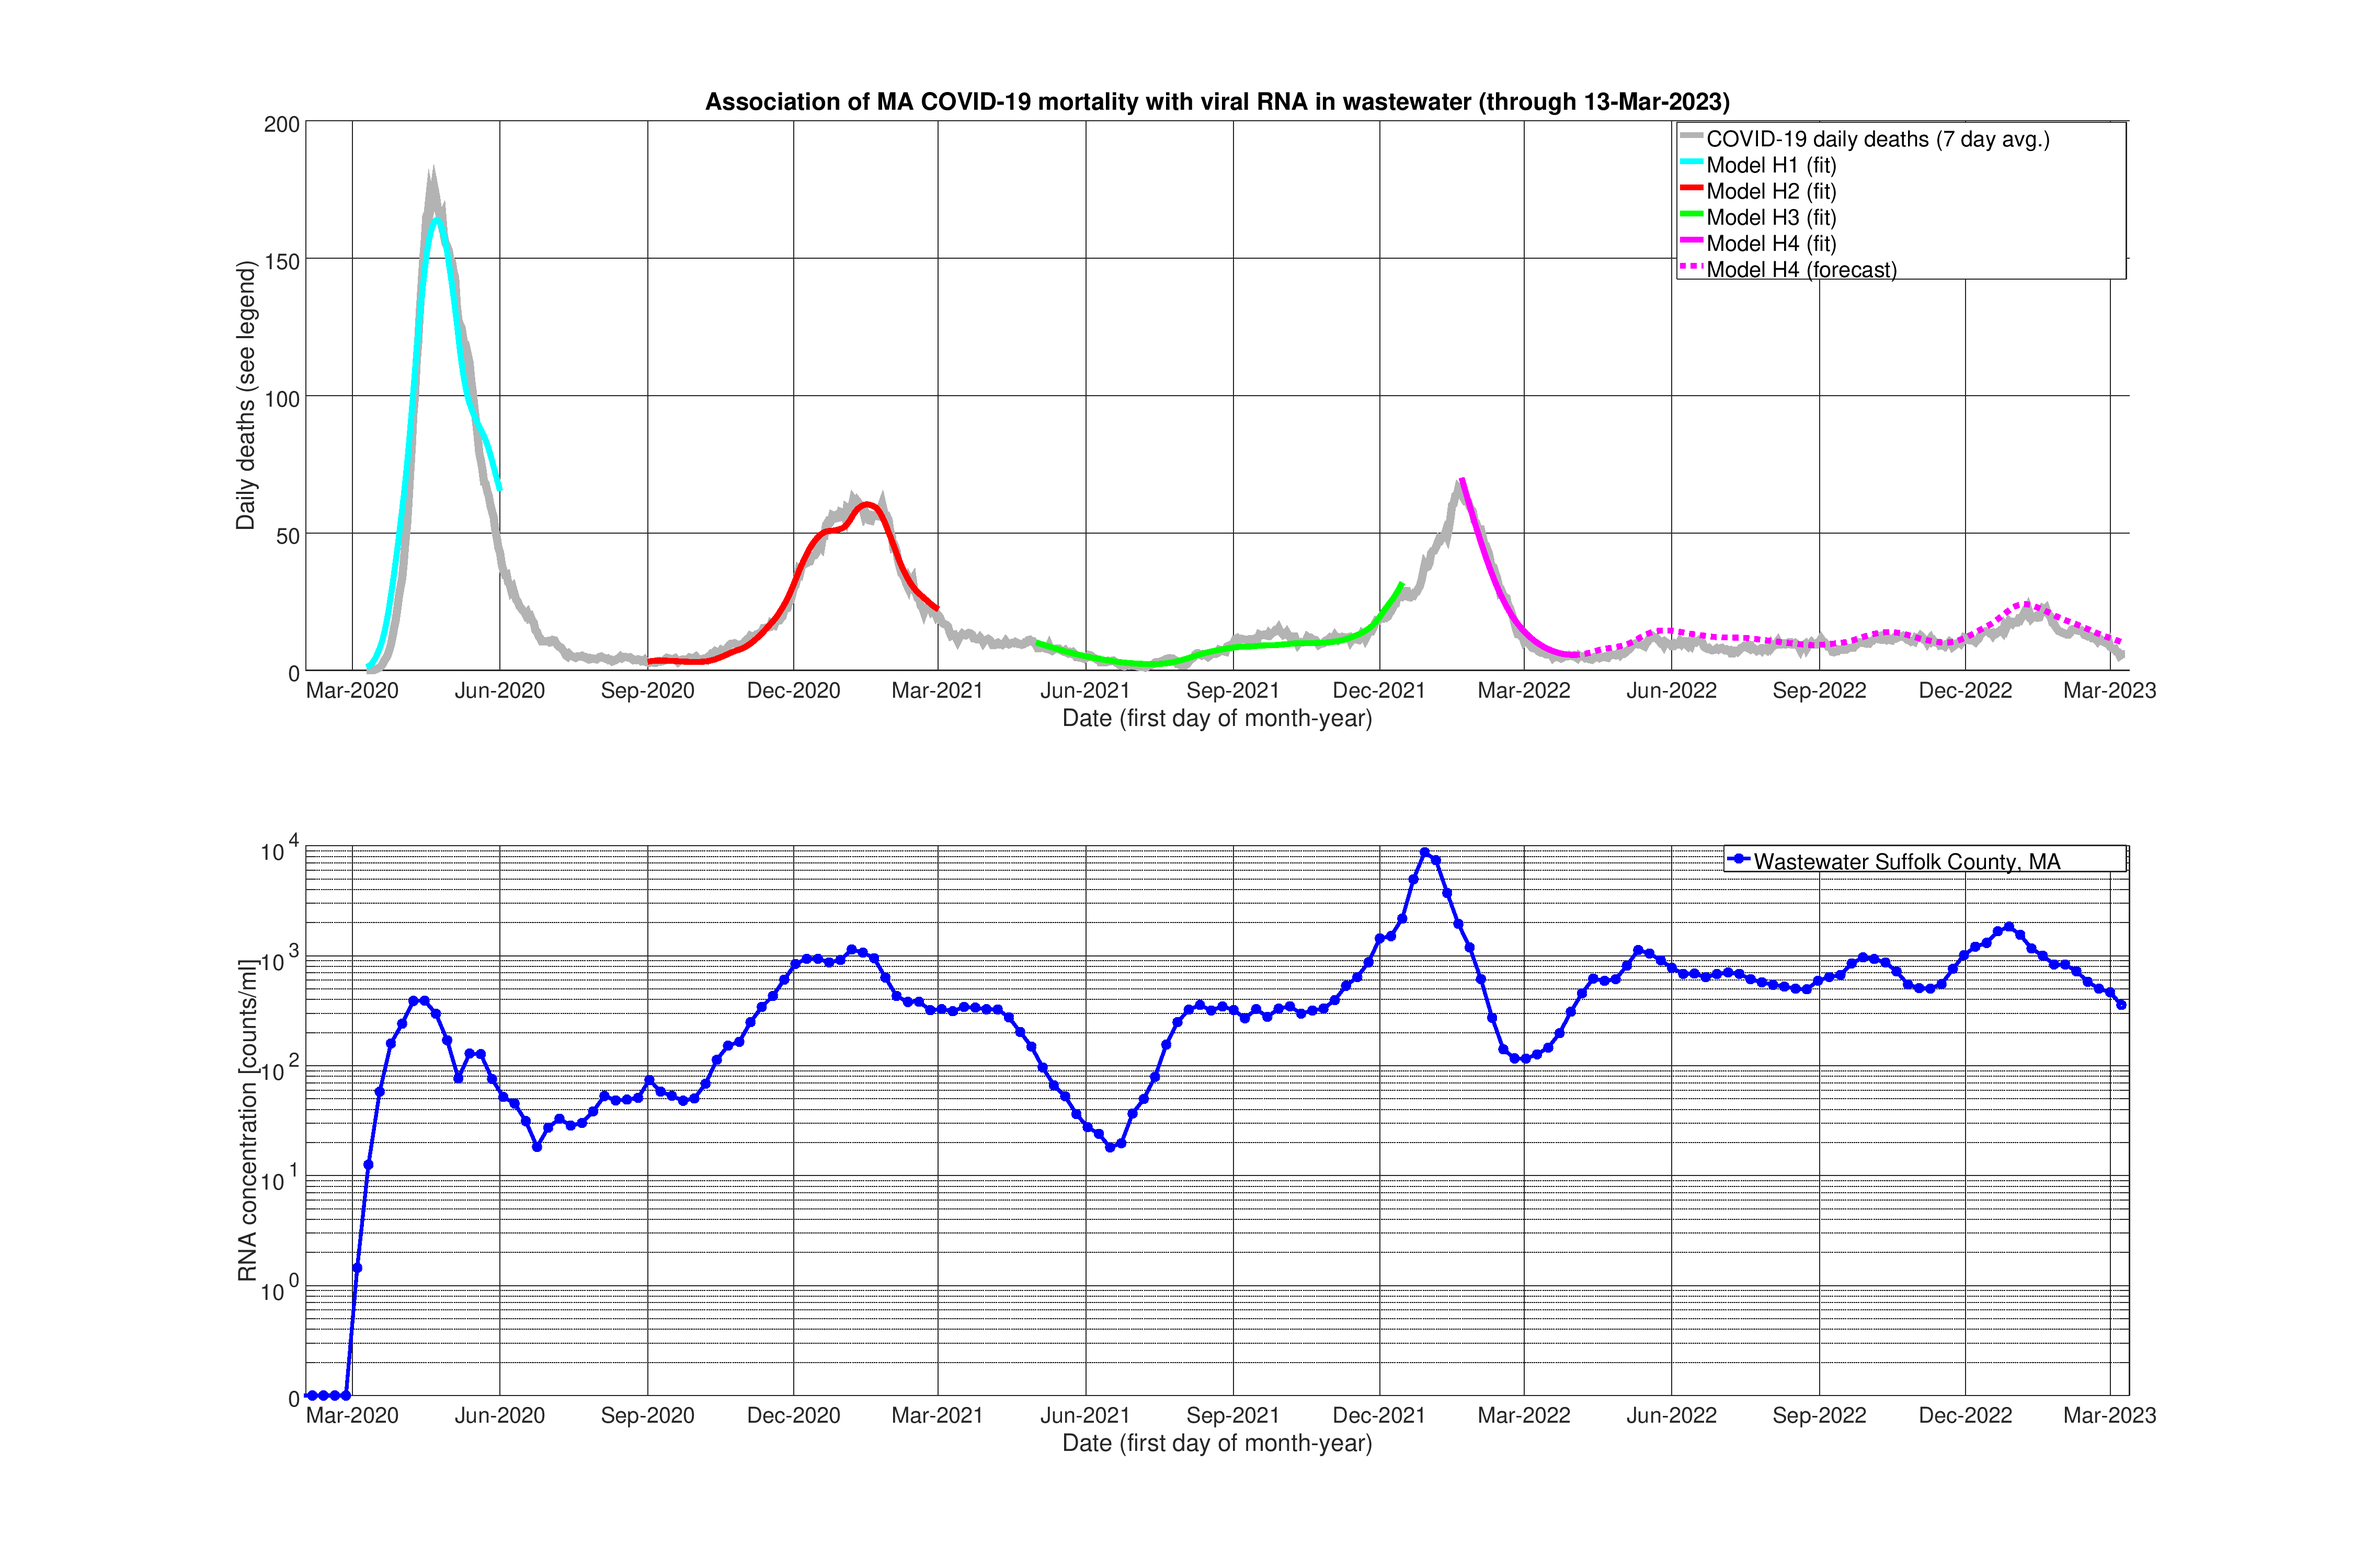
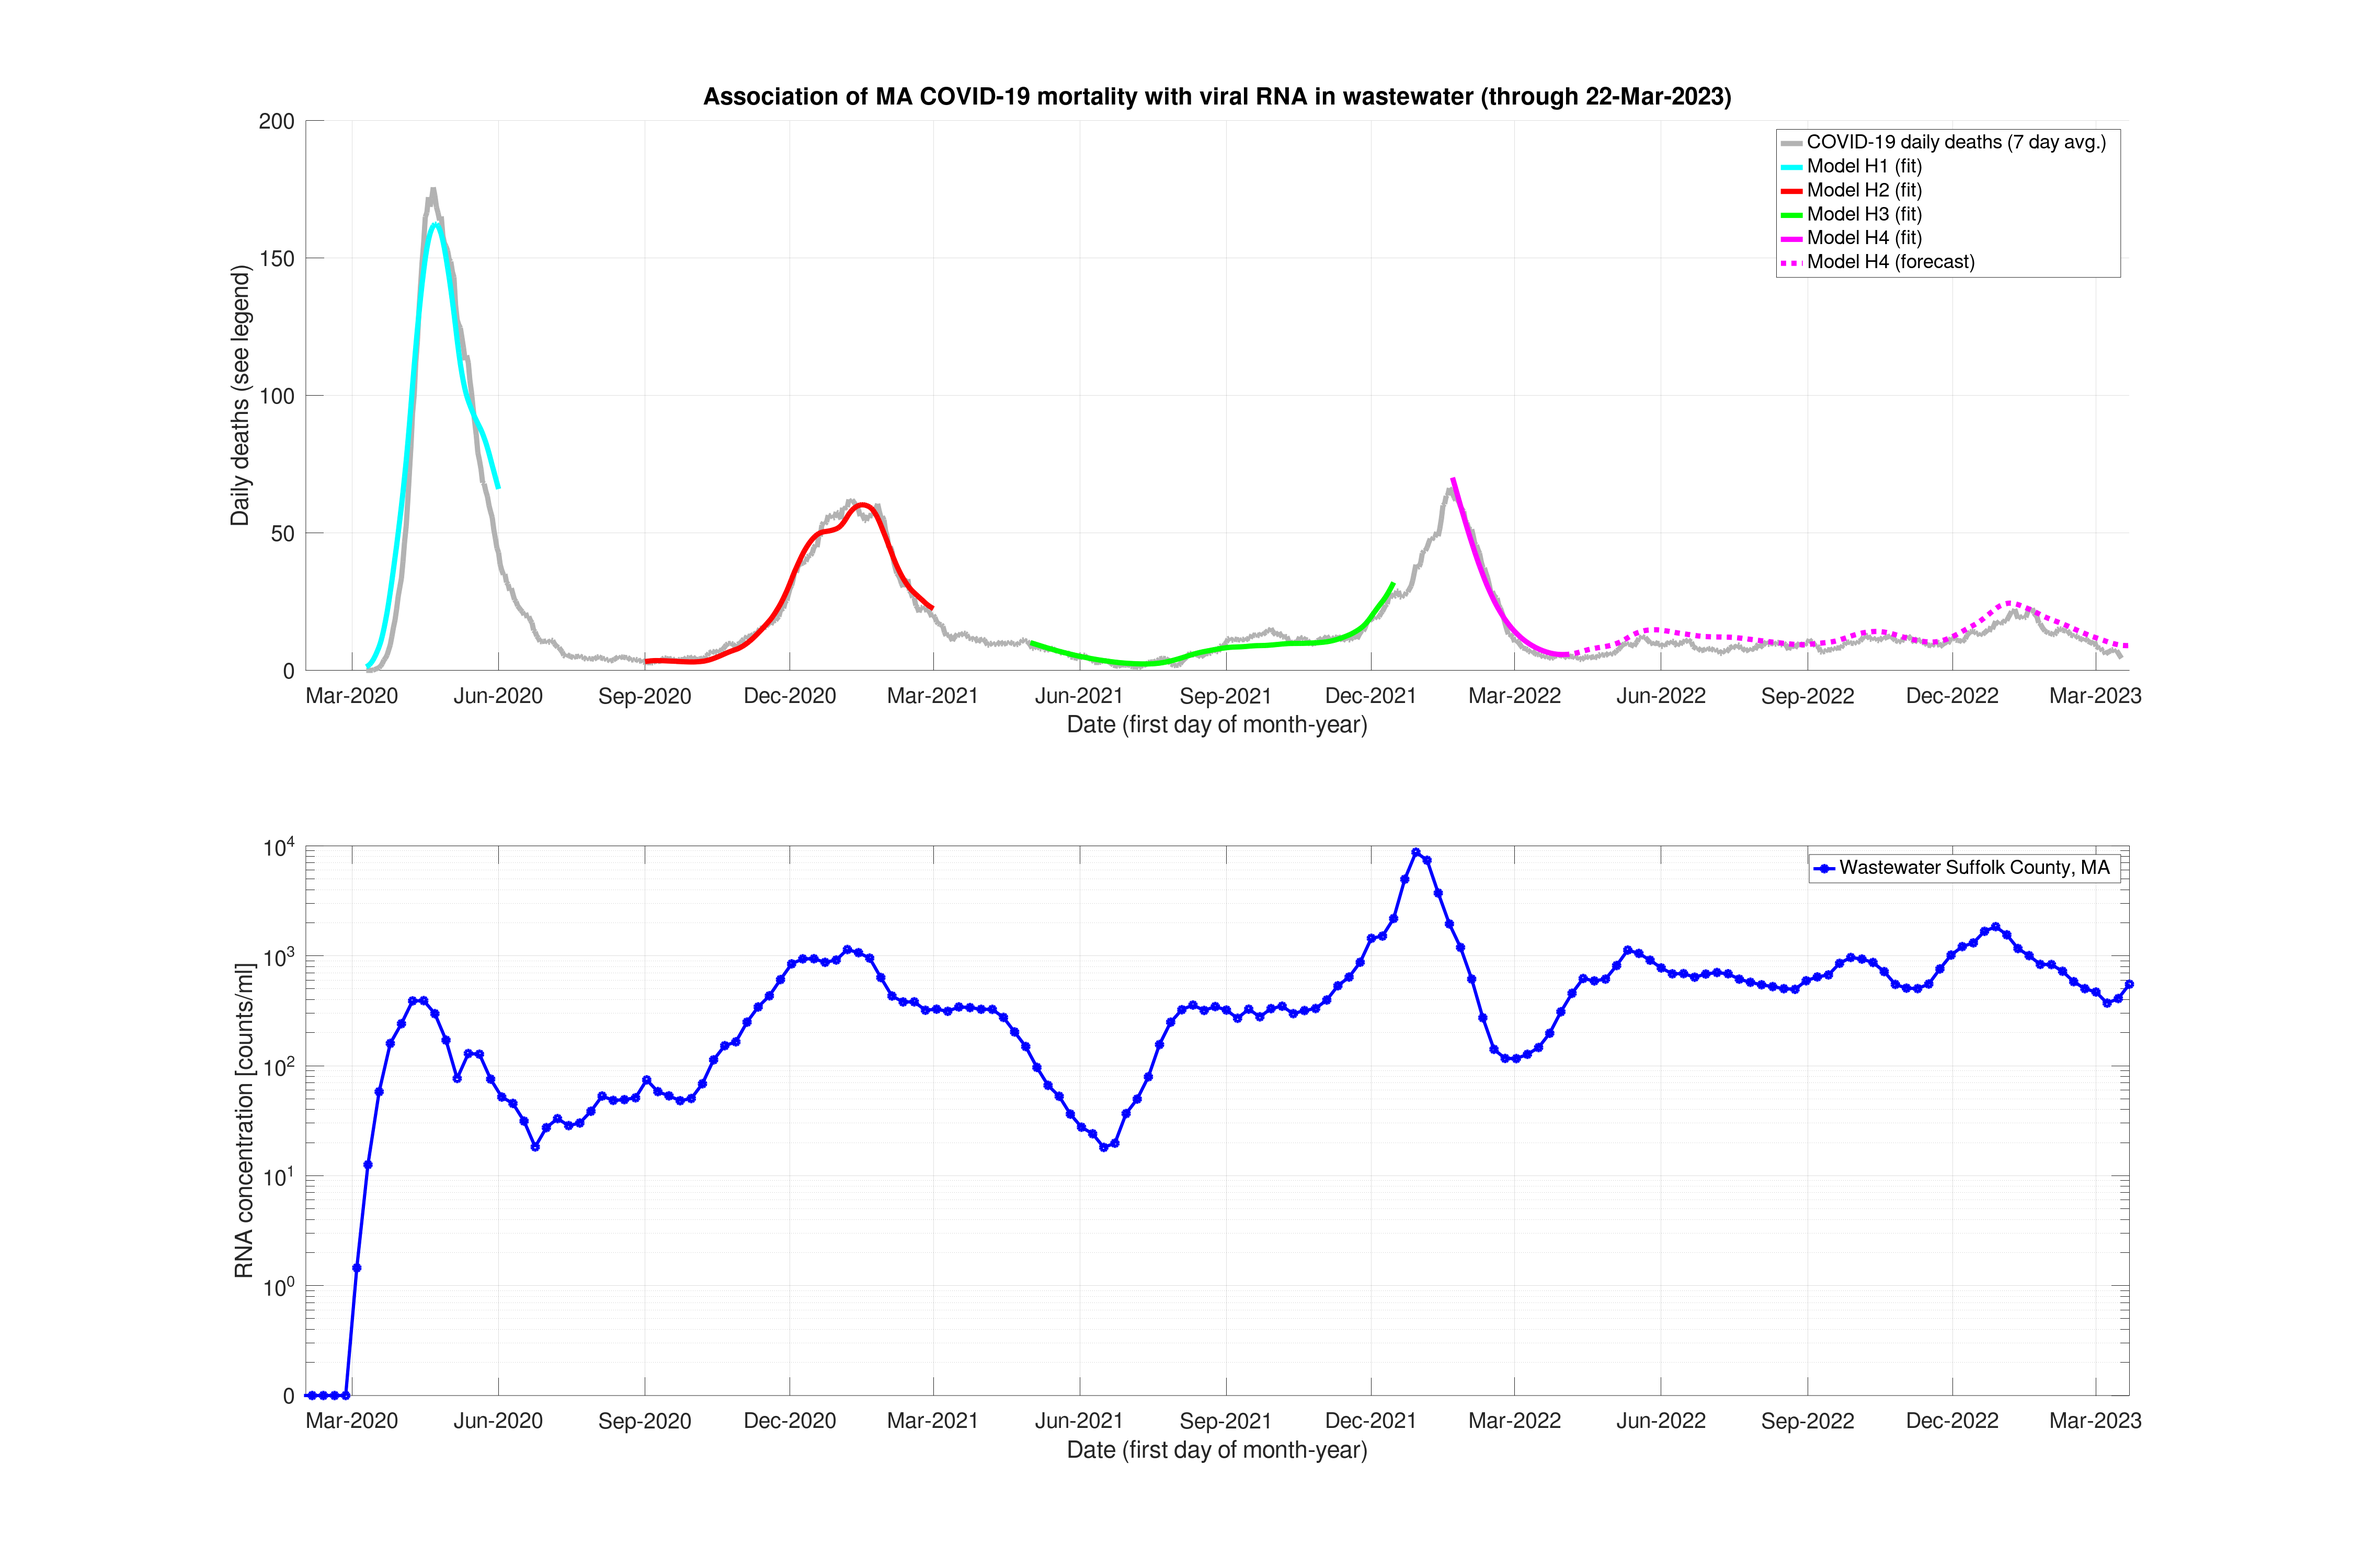
Data update

diff --git a/MA_water/plotMWRA.m b/MA_water/plotMWRA.m
@@ -1,4 +1,4 @@
-EXPORT_PLOT = 0; % set to one to export image
+EXPORT_PLOT = 1; % set to one to export image
 
 %setup figure size/position in pixels
 figure(1, 'position',[20,1000,2000,1600]);
